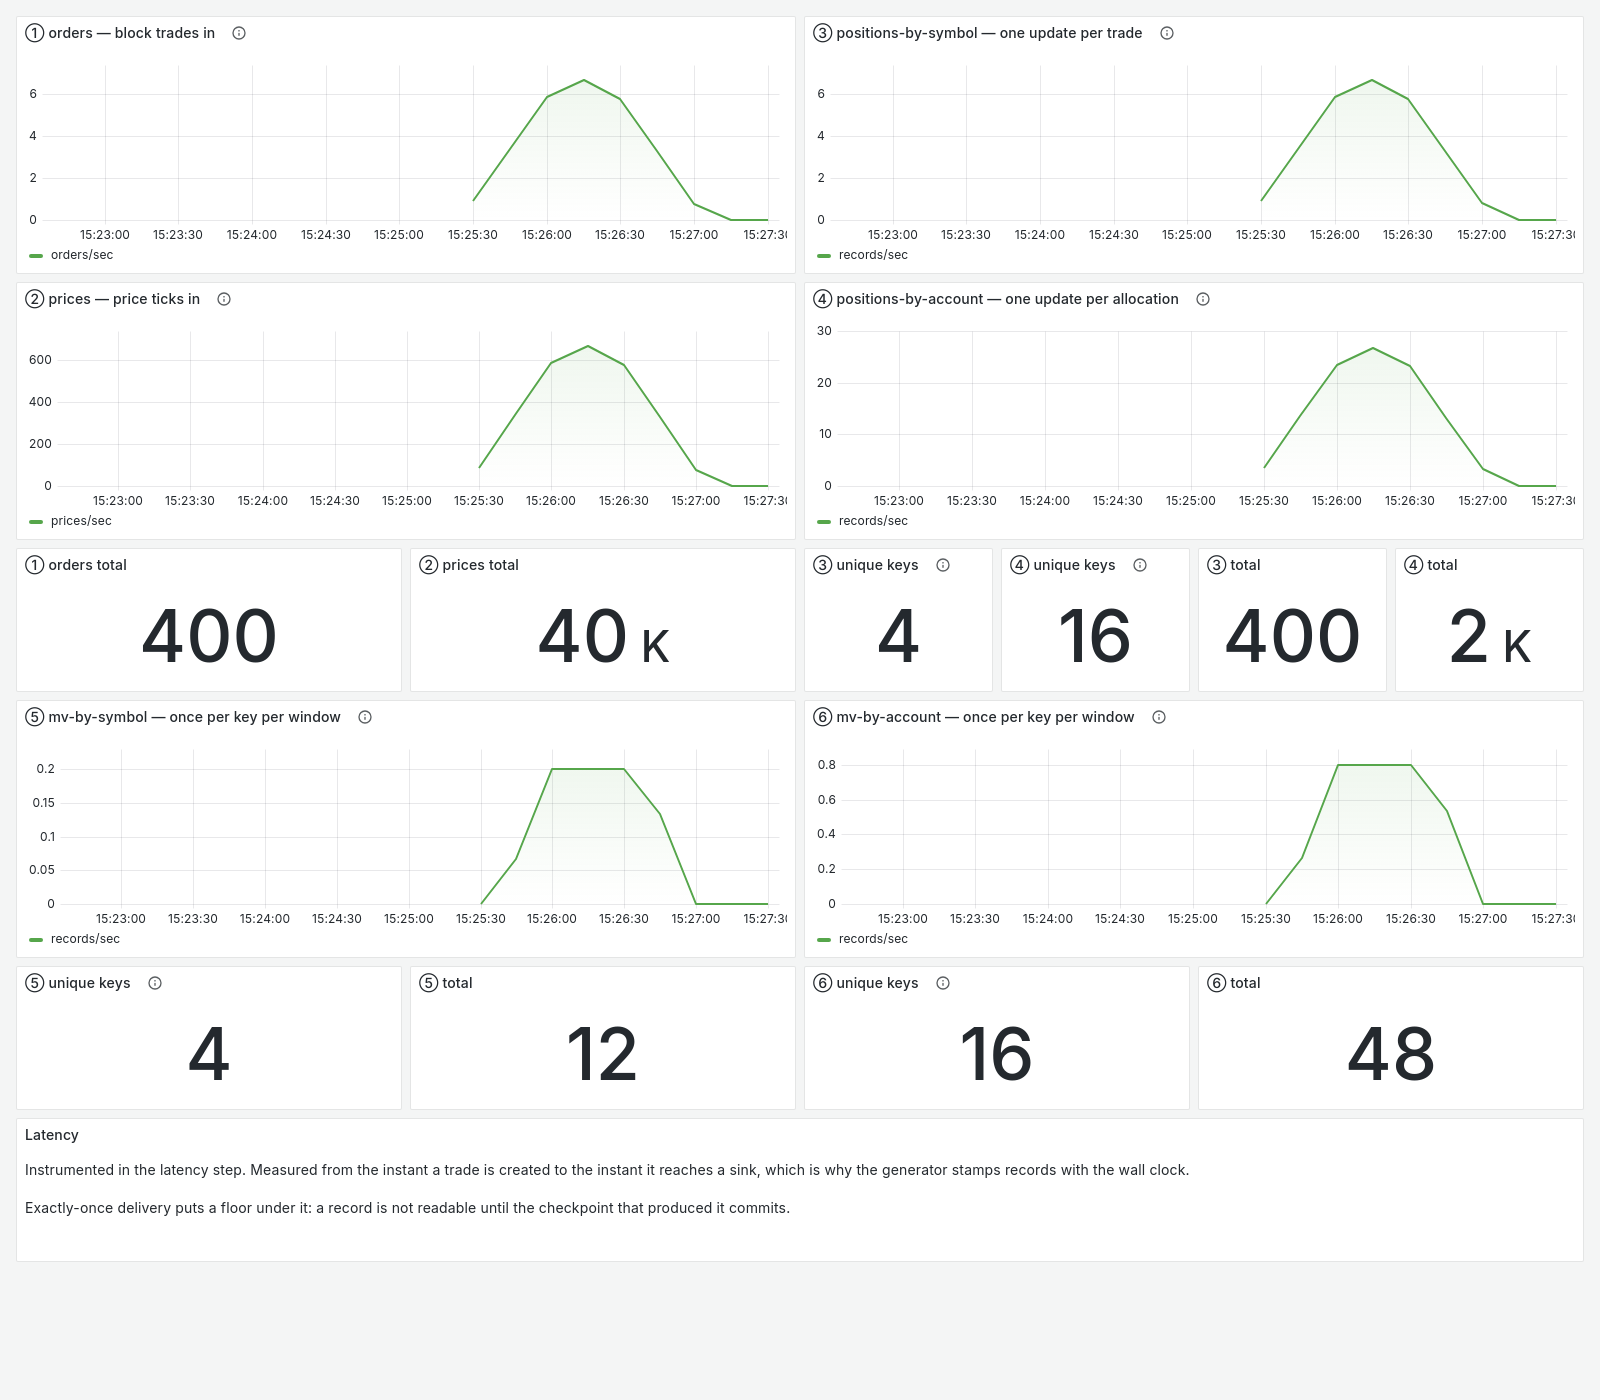
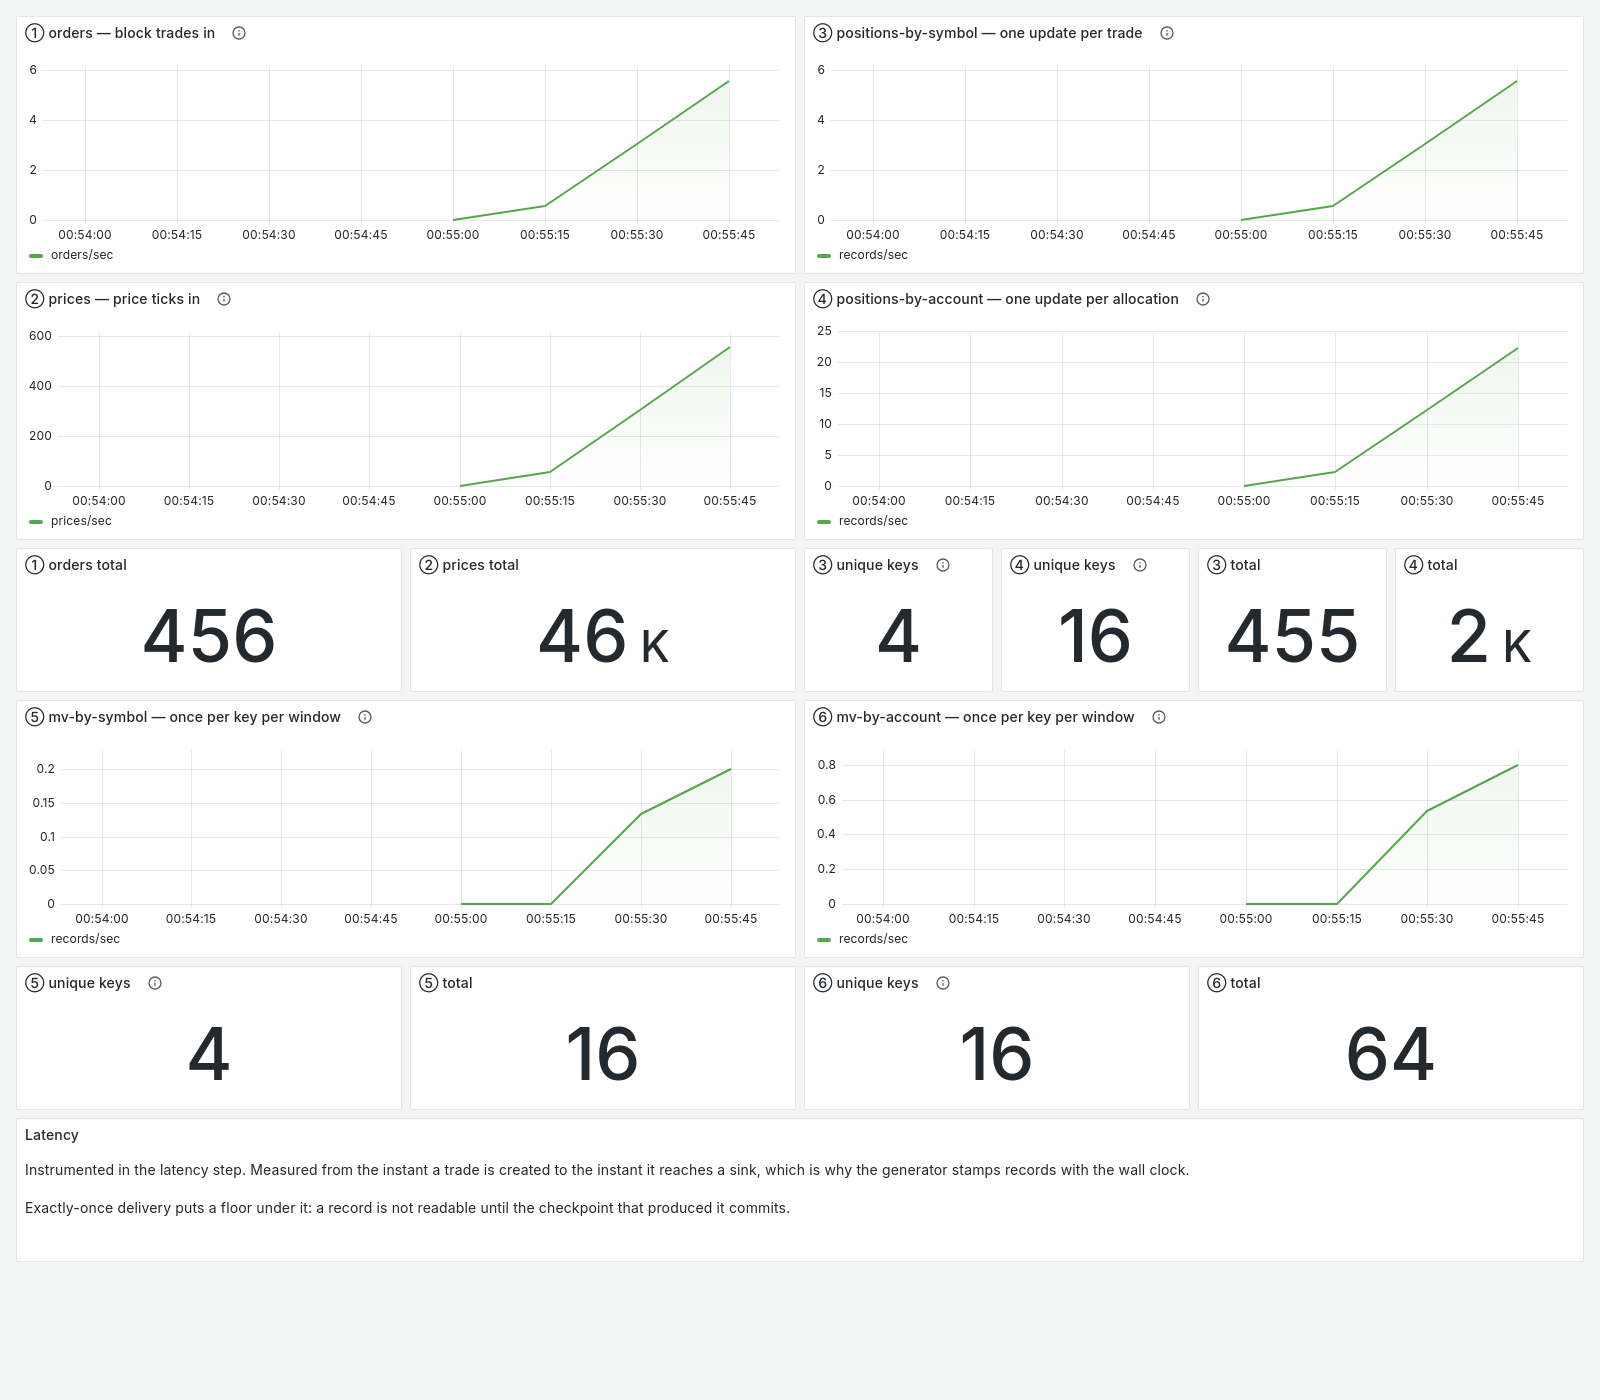
Step 07 review: a one-command demo launcher with a ten-second window
scripts/demo.sh brings up the stack, creates the topics and submits both jobs,
then prints what to open and in what order, so nothing is typed from memory in
front of an audience.

It submits with a ten-second window. The requirements specify one minute and the
job still defaults to it; ten is used for the demo purely so the market value
sinks say something in the first few seconds rather than after a minute of dead
air. Confirmed by running it. That is the one deviation from the specification
visible on screen, so the runbook says to volunteer it when reaching sinks 5 and
6 rather than let it be noticed -- it is a presentation choice, not a difference
in the calculation, and the verification runs against both settings.

Claude-Session: https://claude.ai/code/session_01AjapJuaeAp3sRNXvHzMkVB

diff --git a/docs/demo-runbook.md b/docs/demo-runbook.md
@@ -9,11 +9,16 @@ beforehand. This is that walkthrough.
 ```bash
 source scripts/env.sh
 mvn package -DskipTests
-docker compose -f docker/compose.yml up -d --wait \
-  kafka jobmanager taskmanager prometheus grafana renderer
-docker compose -f docker/compose.yml run --rm topics
-docker compose -f docker/compose.yml --profile submit run --rm submit
+./scripts/demo.sh
 ```
+
+`demo.sh` starts the stack, creates the topics and submits both jobs **with a
+ten-second window**. The requirements specify one minute and the job defaults to
+it; ten seconds is used for the demo purely so the market value sinks say
+something within the first few seconds rather than after a minute of dead air.
+
+**Say that out loud when you get to sinks ⑤ and ⑥.** It is a presentation choice,
+not a difference in the calculation, and it is better volunteered than noticed.
 
 Have these open, in this order, and leave them open:
 
@@ -74,7 +79,9 @@ it is laid out:
 - ③ and ⑤ show **4** unique keys; ④ and ⑥ show **16**
 
 Sinks ⑤ and ⑥ step rather than flow. That is what once-per-key-per-window looks
-like, and it is worth pointing at before someone asks.
+like, and it is worth pointing at before someone asks — as is the fact that the
+window is ten seconds here rather than the specified minute, so that they say
+something while people are watching.
 
 ### 4. Explain any number on the screen
 
@@ -110,6 +117,11 @@ four accounts sum to the block — but the update counts differ by design.
 
 **Why do the market value sinks look like steps?**
 They emit once per key per window, not continuously.
+
+**Why is the window ten seconds and not a minute?**
+Only for the demo, so the sinks say something without a minute of waiting. The
+job defaults to the specified minute; `demo.sh` overrides it. The calculation is
+identical either way, and the verification runs against both.
 
 **Why did a number appear a moment late?**
 Delivery is exactly-once, so a record is not readable until the checkpoint that

diff --git a/docs/reviews/step-07.md b/docs/reviews/step-07.md
@@ -1,0 +1,35 @@
+# Step 07 — Correctness demo: review
+
+## Round 1
+
+### Asked
+
+1. Does the runbook match how you actually present?
+2. Should the demo run at 10 trades/sec, or slower so a specific trade is easier
+   to follow live?
+3. Is a ten-second window acceptable for the live demo? At sixty you wait a full
+   minute before sinks 5 and 6 show anything.
+
+### Feedback
+
+> 3 - yes 10s ok
+
+### Actions
+
+| Feedback | Action |
+|---|---|
+| Ten-second window is fine for the demo | `scripts/demo.sh` submits both jobs with a ten-second window and prints what to open. The job still defaults to the specified minute; the demo overrides it |
+| (1 unanswered) | Runbook kept as written, to the requirements' rules rather than to a personal style |
+| (2 unanswered) | Kept at 10 trades/sec, which is the stated input |
+
+The window is the one deviation from the specification that will be visible on
+screen, so the runbook says to volunteer it when reaching sinks 5 and 6 rather
+than let it be noticed. It is a presentation choice and not a difference in the
+calculation — the verification runs against both settings.
+
+Confirmed by running it: market value appears within the first ten seconds
+instead of after a minute of dead air.
+
+### Outcome
+
+Approved. Squash-merged to `main`, tagged `step-07`.

diff --git a/JOURNAL.md b/JOURNAL.md
@@ -782,4 +782,22 @@ Evidence: [`docs/steps/step-07/`](../docs/steps/step-07/)
 
 ### Review
 
-_Pending._
+Round 1: a ten-second window is acceptable for the live demo.
+
+`scripts/demo.sh` now brings the whole stack up and submits both jobs with a
+ten-second window, printing what to open and in what order — so nothing is typed
+from memory in front of an audience. The job still defaults to the specified
+minute; only the demo overrides it.
+
+That is the one deviation from the specification visible on screen, so the
+runbook says to volunteer it when reaching sinks 5 and 6 rather than let someone
+notice it. It is a presentation choice, not a difference in the calculation, and
+the verification runs against both settings. Confirmed by running it: market
+value appears within the first ten seconds rather than after a minute of nothing.
+
+Questions 1 and 2 went unanswered, so the runbook stays as written and the demo
+rate stays at the stated 10 trades/sec.
+
+Full exchange: [`docs/reviews/step-07.md`](../docs/reviews/step-07.md)
+
+**Outcome:** approved, squash-merged to `main`, tagged `step-07`.
